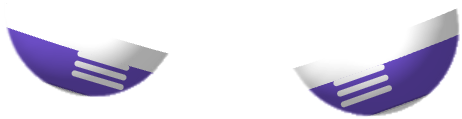
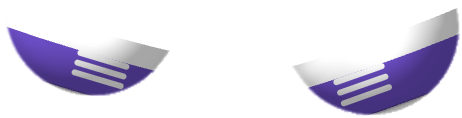
꾸미기: 바지 · 치마 · 신발이 다리에 안 맞던 것 고침
- 두 다리 띠와 허리 네모를 한 도형으로 합쳐 칠해서, 감은 방향이 반대인 겹친 곳이 지워져
  노란 구멍이 났어요 (멜빵바지 · 세일러 치마 · 한복 바지 · 산타 바지). 조각마다 따로 칠해요.
- 다리 띠가 너비 120 으로 가랑이를 넘어 반대쪽 다리까지 칠했어요 (사선 띠 · 밑단 선 · 신발).
  다리 띠와 끝선은 몸 모양에서 잰 가랑이 선(x 252.5)에서 멈춰요.
- 옷 4개 · 신발 9개 PNG 다시 뜸, av-assets 자리 갱신.

diff --git a/mobile/scripts/av-art/art.js b/mobile/scripts/av-art/art.js
@@ -51,15 +51,23 @@
   const LIMB = { hl: [[164, 112], [8, 112]], hr: [[346, 112], [494, 112]], ll: [[206, 168], [163, 312]], lr: [[298, 168], [353, 324]] };
   const geo = (k) => { const [[ax, ay], [bx, by]] = LIMB[k]; const dx = bx - ax, dy = by - ay, L = Math.hypot(dx, dy); return { ax, ay, ux: dx / L, uy: dy / L, L }; };
   const at = (k, s, w = 0) => { const g = geo(k); return [r1(g.ax + g.ux * g.L * s - g.uy * w), r1(g.ay + g.uy * g.L * s + g.ux * w)]; };
+  /** 다리 사이 가르는 선 (몸 모양에서 잰 가랑이 x). 다리 띠는 이 선을 넘어 반대쪽 다리까지 칠하지 않아요 */
+  const CROTCH_X = 252.5;
+  /** 다리 띠의 안쪽(다른 다리 쪽) 끝 w: 왼다리는 음수 · 오른다리는 양수. 두 다리 띠가 1px 겹쳐 이음매가 안 보여요 */
+  const innerW = (k, s, W) => {
+    const g = geo(k), x0 = g.ax + g.ux * g.L * s, w = (x0 - CROTCH_X + (k === 'll' ? -0.5 : 0.5)) / g.uy;
+    return k === 'll' ? Math.max(-W, w) : Math.min(W, w);
+  };
+  const ends = (k, s, W) => (k === 'll' ? [innerW(k, s, W), W] : k === 'lr' ? [-W, innerW(k, s, W)] : [-W, W]);
   /** 팔 · 다리를 s0~s1 (0 = 몸 쪽, 1 = 끝) 만큼 덮는 띠. b = 끝선이 끝 쪽으로 볼록한 정도 */
   const band = (k, s0, s1, b0 = 0.05, b1 = 0.05, W = 120) => {
-    const g = geo(k), A = at(k, s0, -W), B = at(k, s0, W), C = at(k, s1, W), D = at(k, s1, -W);
-    const q0 = at(k, s0 + b0 * 2, 0), q1 = at(k, s1 + b1 * 2, 0);
-    void g;
+    const [a0, c0] = ends(k, s0, W), [a1, c1] = ends(k, s1, W);
+    const A = at(k, s0, a0), B = at(k, s0, c0), C = at(k, s1, c1), D = at(k, s1, a1);
+    const q0 = at(k, s0 + b0 * 2, (a0 + c0) / 2), q1 = at(k, s1 + b1 * 2, (a1 + c1) / 2);
     return `M${A} Q${q0} ${B} L${C} Q${q1} ${D}Z`;
   };
   /** 띠 끝선 하나 (줄 · 시보리 선) */
-  const cut = (k, s, b = 0.05, W = 120) => `M${at(k, s, -W)} Q${at(k, s + b * 2, 0)} ${at(k, s, W)}`;
+  const cut = (k, s, b = 0.05, W = 120) => { const [a, c] = ends(k, s, W); return `M${at(k, s, a)} Q${at(k, s + b * 2, (a + c) / 2)} ${at(k, s, c)}`; };
 
   // 윗옷 자리: 소매 끝 xl · xr, 밑단 hy. 얼굴(목둘레)은 비워요
   const NECK = 'M204 20 C198 142 250 168 300 168 C350 168 402 142 396 20 Z';
@@ -222,7 +230,9 @@
   ];
 
   // ---------------------------------------------------------------- 옷 (몸에 칠해요)
-  const pants = (s1 = 0.86) => `${band('ll', 0.26, s1, 0.04, 0.03)} ${band('lr', 0.26, s1, 0.04, 0.03)} M96 190 H420 V236 H96 Z`;
+  /** 아래옷: 두 다리 띠 + 허리 네모. 겹치는 조각을 한 path 로 합치면 감은 방향이 반대인 곳이 지워져 구멍이 나요 → 조각마다 따로 칠해요 */
+  const lower = (s0, s1, waist, c, b = [0.04, 0.03]) => [band('ll', s0, s1, ...b), band('lr', s0, s1, ...b), waist].map((d) => fl(d, c)).join('');
+  const pants = (s1, c) => lower(0.26, s1, 'M96 190 H420 V236 H96 Z', c);
   const WEARS = [
     { id: 'w-tee', name: '줄무늬 티셔츠', price: 0, rare: '기본', art: () => paint(
       fl(top(112, 400), '#FFFFFF') + `<clipPath id="te${U}"><path d="${top(112, 400)}" fill-rule="evenodd"/></clipPath>` +
@@ -237,7 +247,7 @@
       ln('M282 168 Q278 186 282 200', '#FFFFFF', 5) + ln('M318 168 Q322 186 318 200', '#FFFFFF', 5) + fl(rr(277, 198, 10, 12, 4), '#E5E0F5') + fl(rr(313, 198, 10, 12, 4), '#E5E0F5') +
       fl('M96 210 H420 V226 Q300 244 96 226 Z', '#A390E6')) },
     { id: 'w-overall', name: '청 멜빵바지', price: 200, rare: '일반', art: () => paint(
-      fl(pants(0.8), '#4A78C2') + fl('M240 166 H360 V214 H240 Z', '#4A78C2') +
+      pants(0.8, '#4A78C2') + fl('M240 166 H360 V214 H240 Z', '#4A78C2') +
       ln('M246 170 L232 50', '#4A78C2', 22, { cap: 'butt' }) + ln('M354 170 L368 50', '#4A78C2', 22, { cap: 'butt' }) +
       ln('M246 170 L232 50', '#F2A93B', 2, { da: '5 5' }) + ln('M354 170 L368 50', '#F2A93B', 2, { da: '5 5' }) +
       ln('M248 172 H352 V210', '#F2A93B', 2, { da: '5 5', cap: 'butt' }) + fl(rr(274, 180, 52, 28, 6), '#3E67AC') + ln(rr(274, 180, 52, 28, 6), '#F2A93B', 2, { da: '4 4' }) +
@@ -258,7 +268,7 @@
       `<circle cx="300" cy="206" r="5" fill="#C9CCD6"/>` + fl('M352 176 l22 -4 l2 8 l-22 4 Z', '#FFE200') +
       ln('M60 44 Q70 112 60 180', '#FFFFFF', 12, { cap: 'butt' })) },
     { id: 'w-hanbok', name: '색동 한복', price: 350, rare: '레어', art: () => paint(
-      fl(band('ll', 0.2, 0.95, 0.04, 0.04) + ' ' + band('lr', 0.2, 0.95, 0.04, 0.04) + ' M90 196 H426 V240 H90 Z', '#3B5BA9') +
+      lower(0.2, 0.95, 'M90 196 H426 V240 H90 Z', '#3B5BA9', [0.04, 0.04]) +
       ln('M96 212 Q300 228 424 212', '#2D4889', 10) +
       `<path d="${top(66, 436, 206, 10)}" fill="#F7B3C9" fill-rule="evenodd"/>` +
       rng(5, (i) => ln(`M${132 - i * 15} 40 Q${142 - i * 15} 112 ${132 - i * 15} 184`, ['#E5484D', '#FFE200', '#5CBF8A', '#7FA7E8', '#B07CE0'][i], 15, { cap: 'butt' })) +
@@ -276,14 +286,14 @@
       ln(NECK.replace(' Z', ''), '#E5484D', 12) + ln('M300 168 L300 232', '#3D5AA8', 3) + rng(3, (i) => `<circle cx="312" cy="${180 + i * 16}" r="4.5" fill="#3D5AA8"/>`) +
       `<path d="${star(254, 196, 16, 0.45)}" fill="#E5484D"/>` + fl('M96 212 H420 V226 Q300 244 96 226 Z', '#E5484D')) },
     { id: 'w-sailor', name: '세일러 교복', price: 300, rare: '레어', art: () => paint(
-      fl(band('ll', 0.22, 0.62, 0.04, 0.05) + ' ' + band('lr', 0.22, 0.62, 0.04, 0.05) + ' M90 196 H426 V240 H90 Z', '#2B3A6B') +
+      lower(0.22, 0.62, 'M90 196 H426 V240 H90 Z', '#2B3A6B', [0.04, 0.05]) +
       rng(10, (i) => ln(`M${130 + i * 26} 226 L${118 + i * 30} 290`, '#1F2B52', 3, { op: 0.7 })) +
       `<path d="${top(104, 404, 206, 10)}" fill="#FFFFFF" fill-rule="evenodd"/>` +
       fl('M150 40 L204 40 Q214 150 300 176 Q386 150 396 40 L452 40 L440 120 L300 206 L162 120 Z', '#2B3A6B') +
       ln('M168 60 L180 116 L300 188 L420 116 L432 60', '#FFFFFF', 4) + ln('M300 176 L300 206', '#2B3A6B', 2),
       P('M300 178 L270 196 L274 214 L300 198 L326 214 L330 196 Z', '#E5484D', { rim: 0.25 }) + P('M292 196 L284 236 L300 228 L316 236 L308 196 Z', '#E5484D', { rim: 0.25 }) + P(ell(300, 192, 10, 9), '#C93A44', { rim: 0.25 })) },
     { id: 'w-santa', name: '산타 옷', price: 0, rare: '시즌', lock: '12월 출석 7일 보상', art: () => paint(
-      fl(pants(0.78), '#D93A44') + `<path d="${top(60, 440, 214)}" fill="#E5484D" fill-rule="evenodd"/>` +
+      pants(0.78, '#D93A44') + `<path d="${top(60, 440, 214)}" fill="#E5484D" fill-rule="evenodd"/>` +
       fl('M96 194 H420 V214 H96 Z', '#2A2533') + fl(rr(282, 190, 36, 28, 5), '#FFCB2E') + fl(rr(290, 197, 20, 14, 3), '#2A2533') +
       ln(NECK.replace(' Z', ''), '#FFFFFF', 20) + ln('M300 168 L300 192', '#FFFFFF', 18) +
       rng(7, (i) => `<circle cx="60" cy="${54 + i * 19}" r="15" fill="#FFFFFF"/><circle cx="440" cy="${54 + i * 19}" r="15" fill="#FFFFFF"/>`) +

diff --git a/mobile/src/components/character/av-assets.ts b/mobile/src/components/character/av-assets.ts
@@ -169,7 +169,7 @@ export const AV_GEO: Record<string, AvGeo> = {
   'f-beard': { k: 'box', r: [0.4256, 0.3896, 0.3026, 0.3353] },
   'w-tee': { k: 'box', r: [0.1974, 0.0261, 0.5897, 0.6707] },
   'w-hoodie': { k: 'box', r: [0.0872, 0.0261, 0.791, 0.6867] },
-  'w-overall': { k: 'box', r: [0.1974, 0.1506, 0.6256, 0.7912] },
+  'w-overall': { k: 'box', r: [0.1974, 0.1506, 0.6256, 0.7892] },
   'w-sweater': { k: 'box', r: [0.0923, 0.0261, 0.7808, 0.6747] },
   'w-suit': { k: 'box', r: [0.1038, 0.0261, 0.7449, 0.7008] },
   'w-hanbok': { k: 'box', r: [0.1244, 0.0261, 0.7167, 0.9438] },
@@ -187,16 +187,16 @@ export const AV_GEO: Record<string, AvGeo> = {
   'g-box': { k: 'box', r: [0.0077, 0.1506, 0.9513, 0.3675] },
   'g-rubber': { k: 'box', r: [0.0167, 0.1486, 0.9269, 0.5542] },
   'g-gold': { k: 'box', r: [-0.0256, 0.1165, 1.0154, 0.4418] },
-  's-purple': { k: 'box', r: [0.1974, 0.7309, 0.5923, 0.239] },
+  's-purple': { k: 'box', r: [0.1974, 0.7329, 0.5923, 0.2369] },
   's-hightop': { k: 'box', r: [0.1974, 0.7048, 0.5923, 0.2651] },
-  's-loafer': { k: 'box', r: [0.1974, 0.741, 0.5923, 0.2289] },
+  's-loafer': { k: 'box', r: [0.1974, 0.743, 0.5923, 0.2269] },
   's-stripe': { k: 'box', r: [0.1974, 0.6627, 0.5923, 0.3072] },
-  's-maryjane': { k: 'box', r: [0.1974, 0.7129, 0.5923, 0.257] },
-  's-sandal': { k: 'box', r: [0.2064, 0.8072, 0.5795, 0.1627] },
+  's-maryjane': { k: 'box', r: [0.1974, 0.7149, 0.5923, 0.255] },
+  's-sandal': { k: 'box', r: [0.2077, 0.8092, 0.5782, 0.1606] },
   's-boot': { k: 'box', r: [0.1974, 0.6627, 0.5923, 0.3072] },
   's-slipper': { k: 'box', r: [0.1974, 0.7349, 0.5923, 0.2349] },
   's-snow': { k: 'box', r: [0.1974, 0.6506, 0.5923, 0.3193] },
-  's-roller': { k: 'box', r: [0.1974, 0.6948, 0.5923, 0.3976] },
+  's-roller': { k: 'box', r: [0.1974, 0.6968, 0.5923, 0.3956] },
   'd-flag': { k: 'box', r: [0.8756, -0.512, 0.2833, 0.9418] },
   'd-book': { k: 'box', r: [0.7872, -0.243, 0.2731, 0.5261] },
   'd-coffee': { k: 'box', r: [0.8026, -0.3976, 0.2103, 0.7369] },
